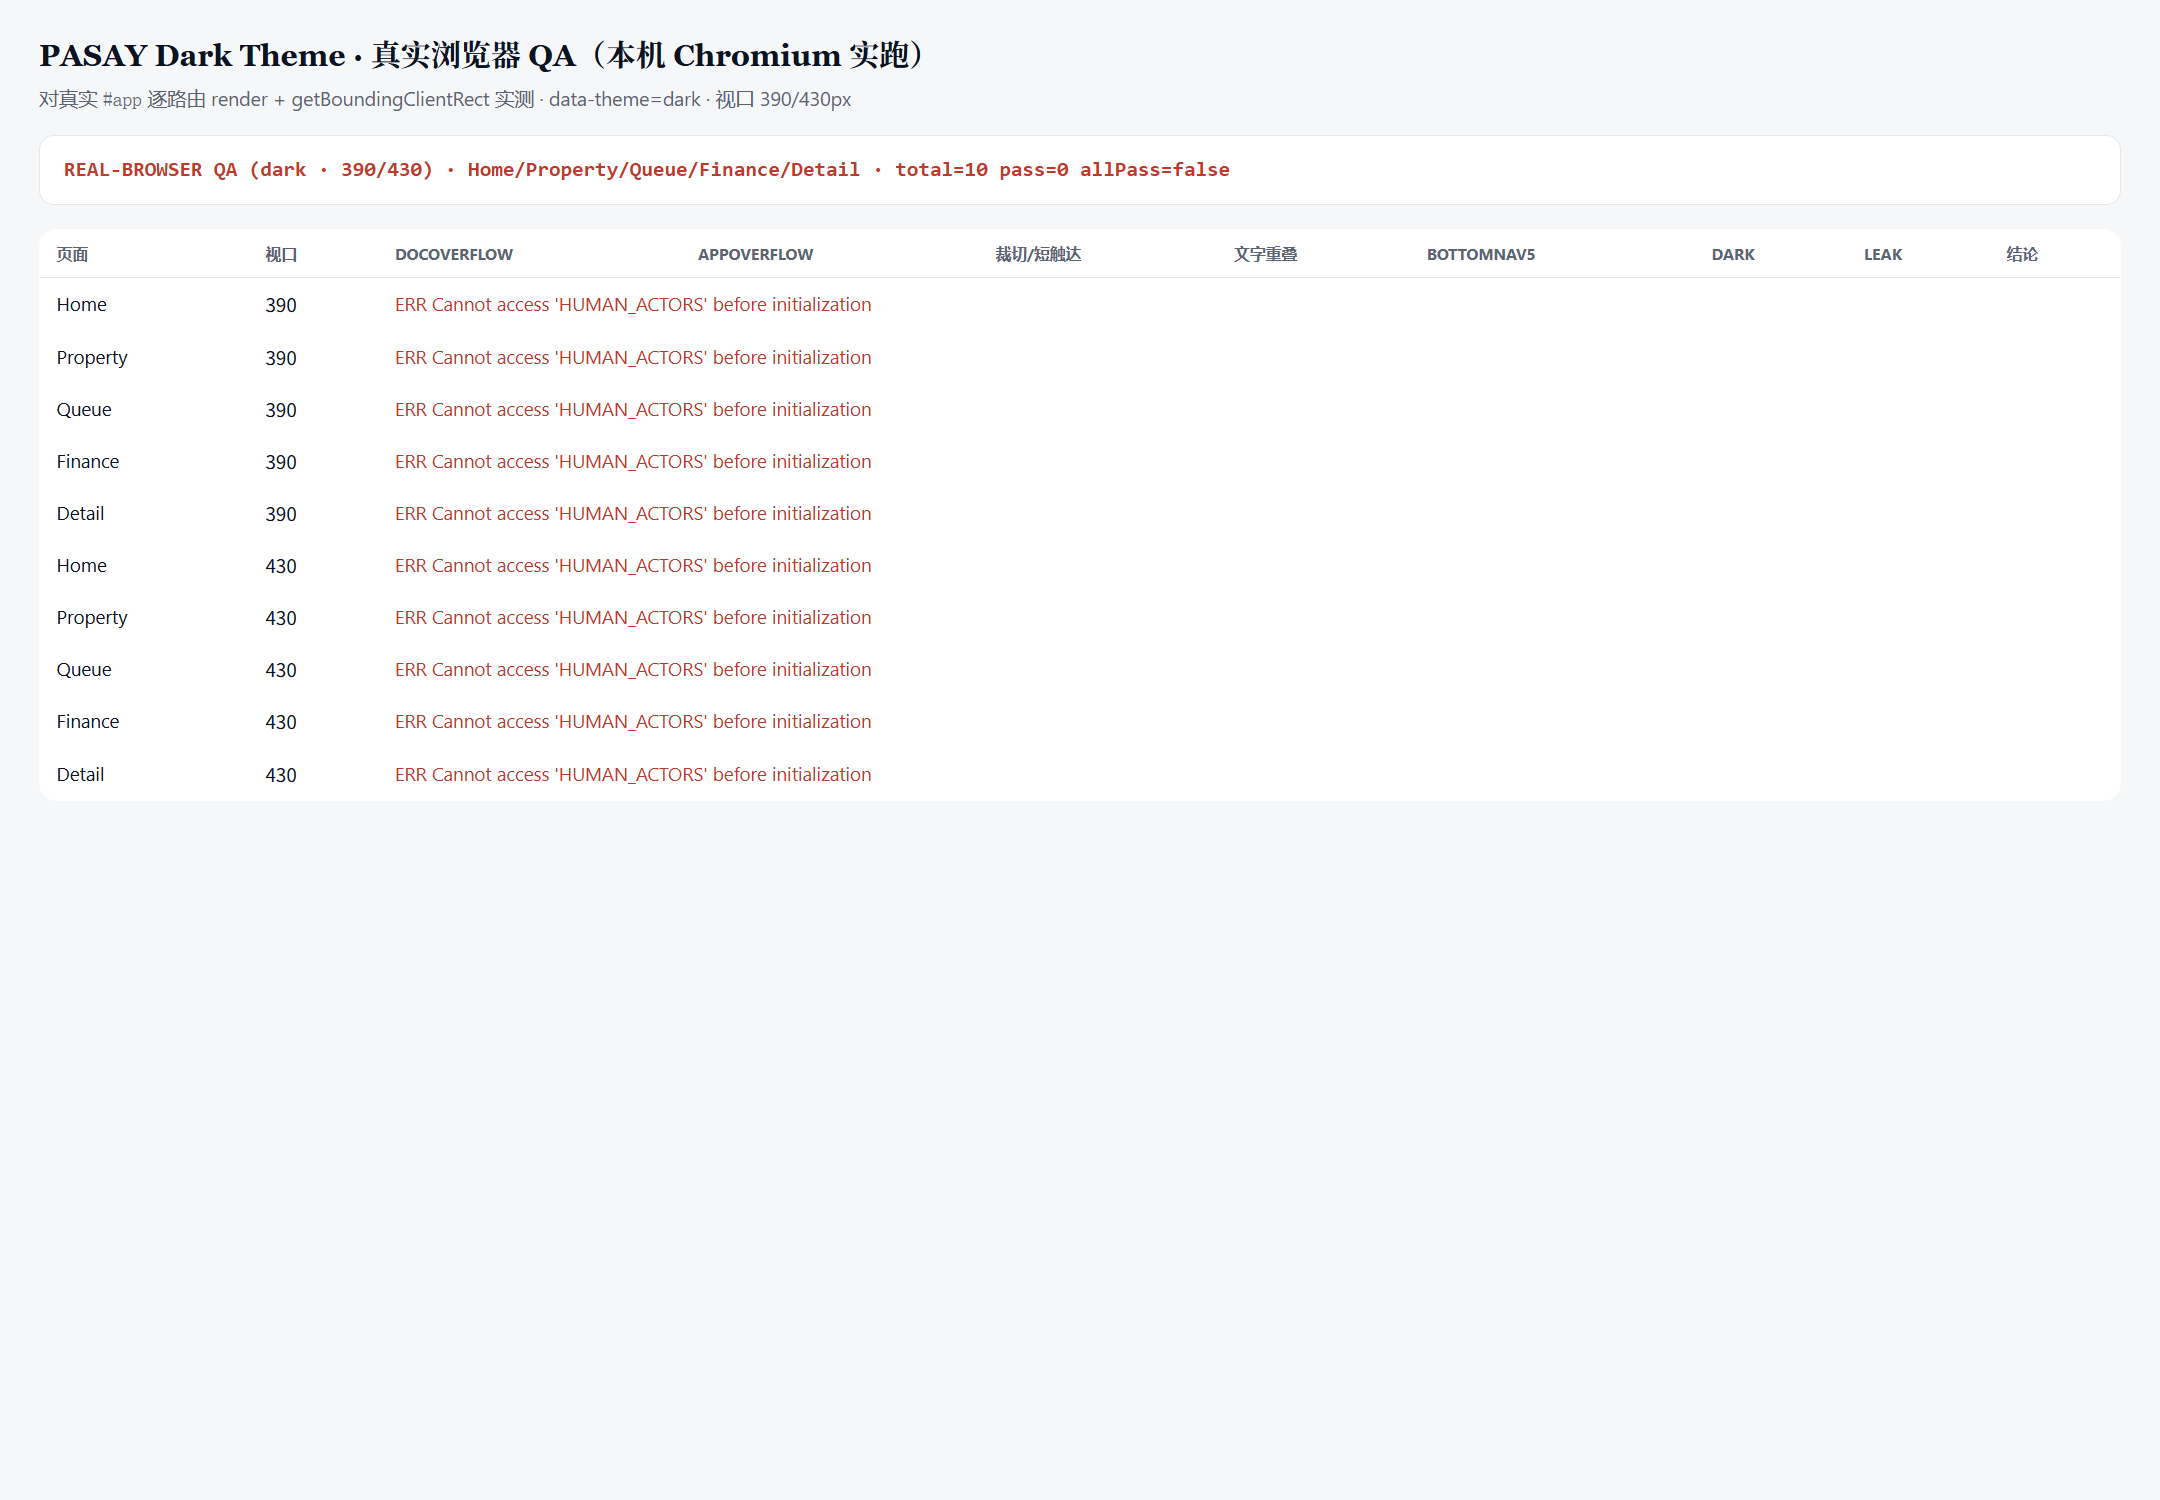
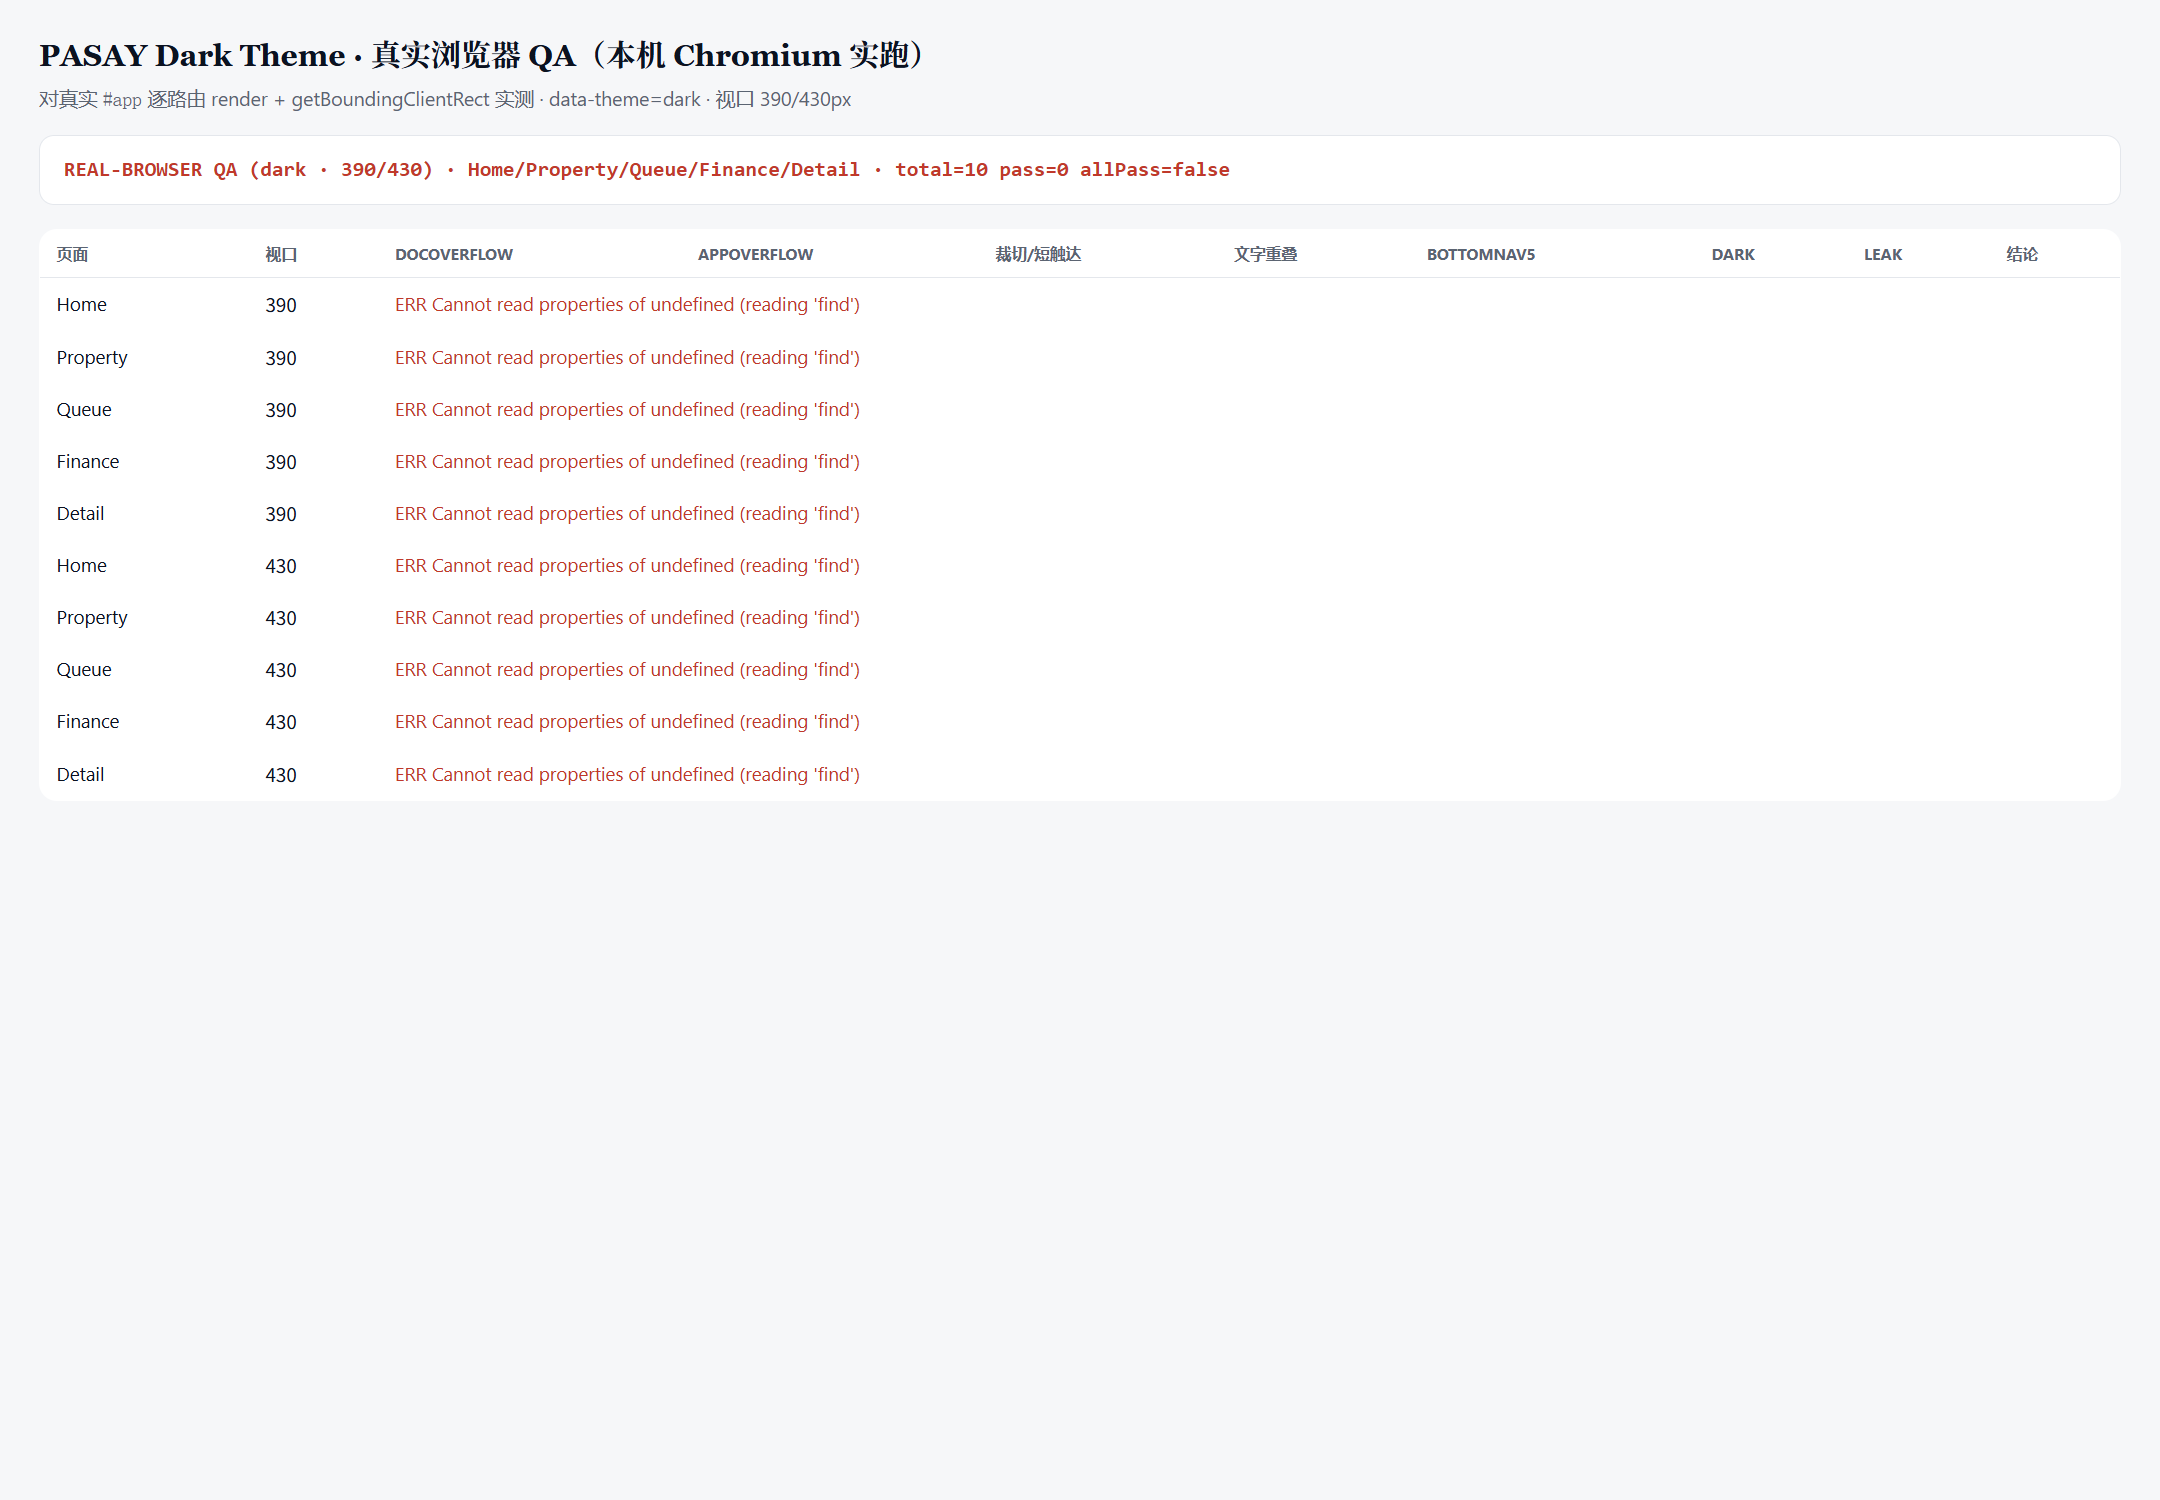
chore(opendesign): auto sync 2026-08-22 11:11:09

Changed region(s): [[0.2481, 0.3067, 0.4032, 0.5213], [0.2481, 0.184, 0.4032, 0.276]]

diff --git a/pasay-dark-qa-390-430.html b/pasay-dark-qa-390-430.html
@@ -13622,21 +13622,6 @@ window.__OD_RUN_GATES = function() {
       var de = document.documentElement;
       de.setAttribute('data-theme','dark');
       var app = document.getElementById('app');
-      // Seed a realistic workspace so all core pages render with data (mirrors browser-qa-390-430.js).
-      try {
-        state = seed(); state.leases = []; state.paymentRecords = []; state.lang = 'zh'; __isFreshSeed = true;
-        if (typeof ensureVNextSeed === 'function') ensureVNextSeed();
-        if (typeof ensureExpenseOperationSeed === 'function') ensureExpenseOperationSeed();
-        if (typeof ensureRepairOperationSeed === 'function') ensureRepairOperationSeed();
-        if (typeof __odRebuildPaymentRecords === 'function') __odRebuildPaymentRecords();
-        if (typeof ensureOps008aScenarios === 'function') ensureOps008aScenarios();
-        if (typeof ensureLeaseOperationSeed === 'function') ensureLeaseOperationSeed();
-        if (typeof ensureMoveOutOperationSeed === 'function') ensureMoveOutOperationSeed();
-        if (typeof syncOperationTasks === 'function') syncOperationTasks();
-        if (typeof wsResetFresh === 'function') wsResetFresh();
-        if (typeof wsCreateWorkspace === 'function') wsCreateWorkspace('QA Co','qa-owner');
-        if (typeof ws === 'function') { var ow = ws().members.find(function(m){return m.role==='owner'&&m.status==='active';}); if (ow) state.currentUserId = ow.userId; }
-      } catch (seedErr) { /* seed best-effort */ }
       var ROUTES = [['Home','#/home'],['Property','#/props'],['Queue','#/ops'],['Finance','#/finance'],['Detail','#/property/1608']];
       var WIDTHS = [390,430];
       var tb = document.getElementById('__qa_tb');
@@ -13703,10 +13688,22 @@ window.__OD_RUN_GATES = function() {
       window.__QA_ALLPASS = false;
     }
   }
-  // Run synchronously at script eval: the app's script (defining render/seed/state) is already
-  // parsed above this injected script, so globals are available now. No load wait, no setTimeout →
-  // the export snapshot always captures a fully-completed measurement.
-  run();
+  // Run only after the app has fully booted and initialized its own state (its init runs on
+  // DOMContentLoaded / load). Chain rAF + a short delay so app globals (const HUMAN_ACTORS etc.)
+  // and initial state are fully live before we drive render(). The export idle-wait covers this.
+  function schedule(){
+    var tries = 0;
+    (function tick(){
+      tries++;
+      // ready when render + state exist and app has content OR we've waited enough
+      var ready = (typeof render === 'function') && (typeof state !== 'undefined') && state && document.getElementById('app');
+      if (ready) { run(); return; }
+      if (tries > 120) { try { run(); } catch(e){} return; }
+      requestAnimationFrame(tick);
+    })();
+  }
+  if (document.readyState === 'complete') { setTimeout(schedule, 120); }
+  else { window.addEventListener('load', function(){ setTimeout(schedule, 120); }); }
 })();
 </script>
 
